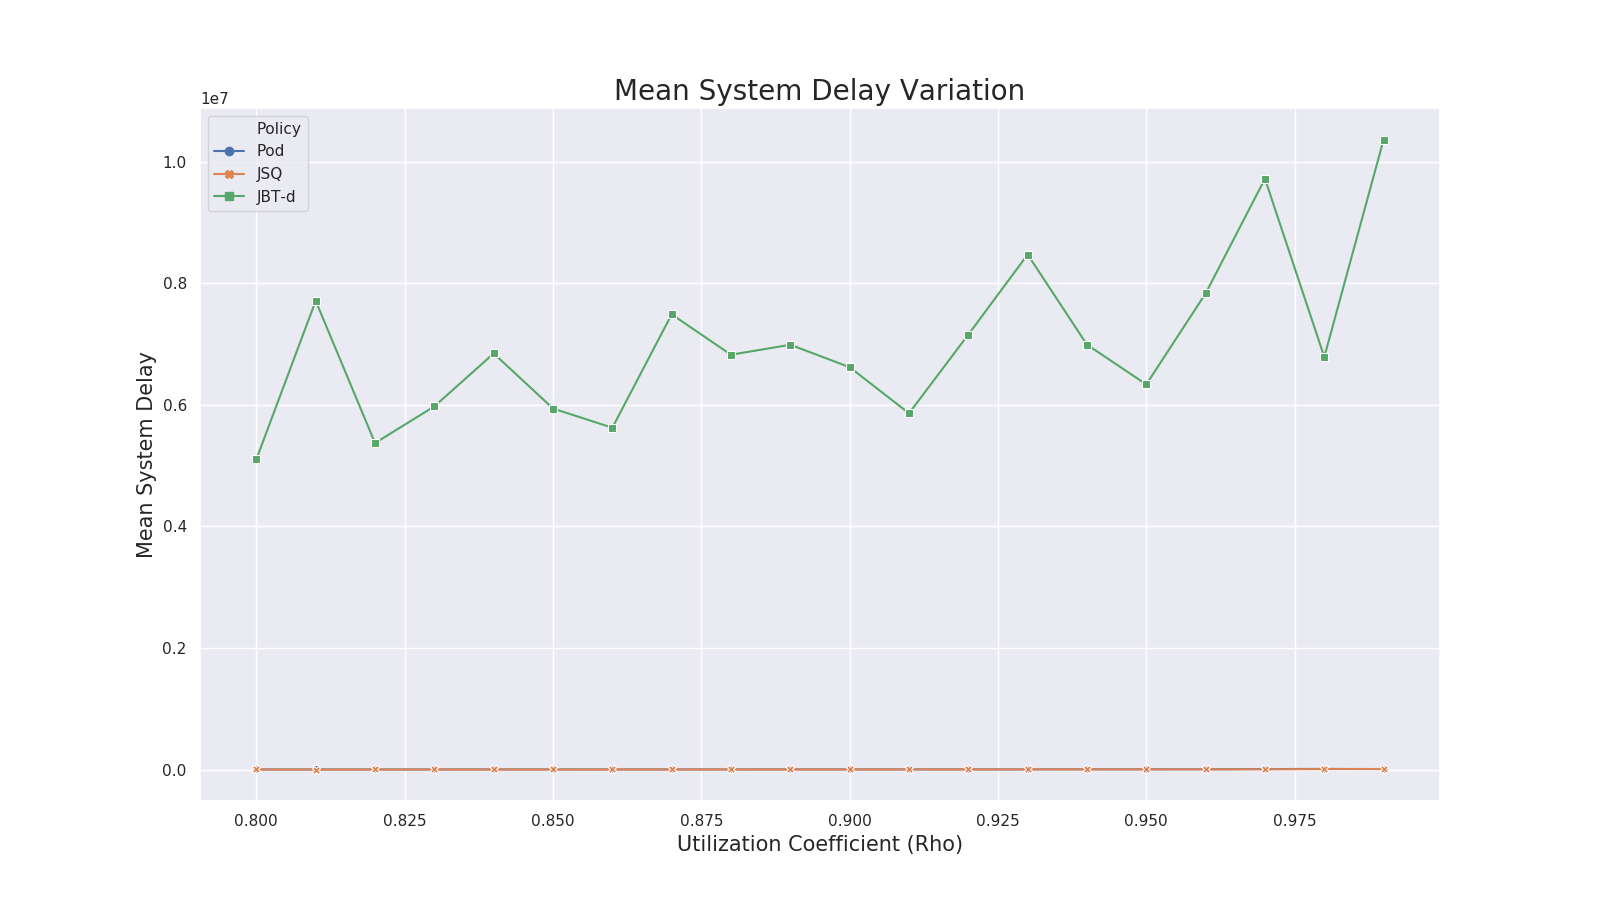
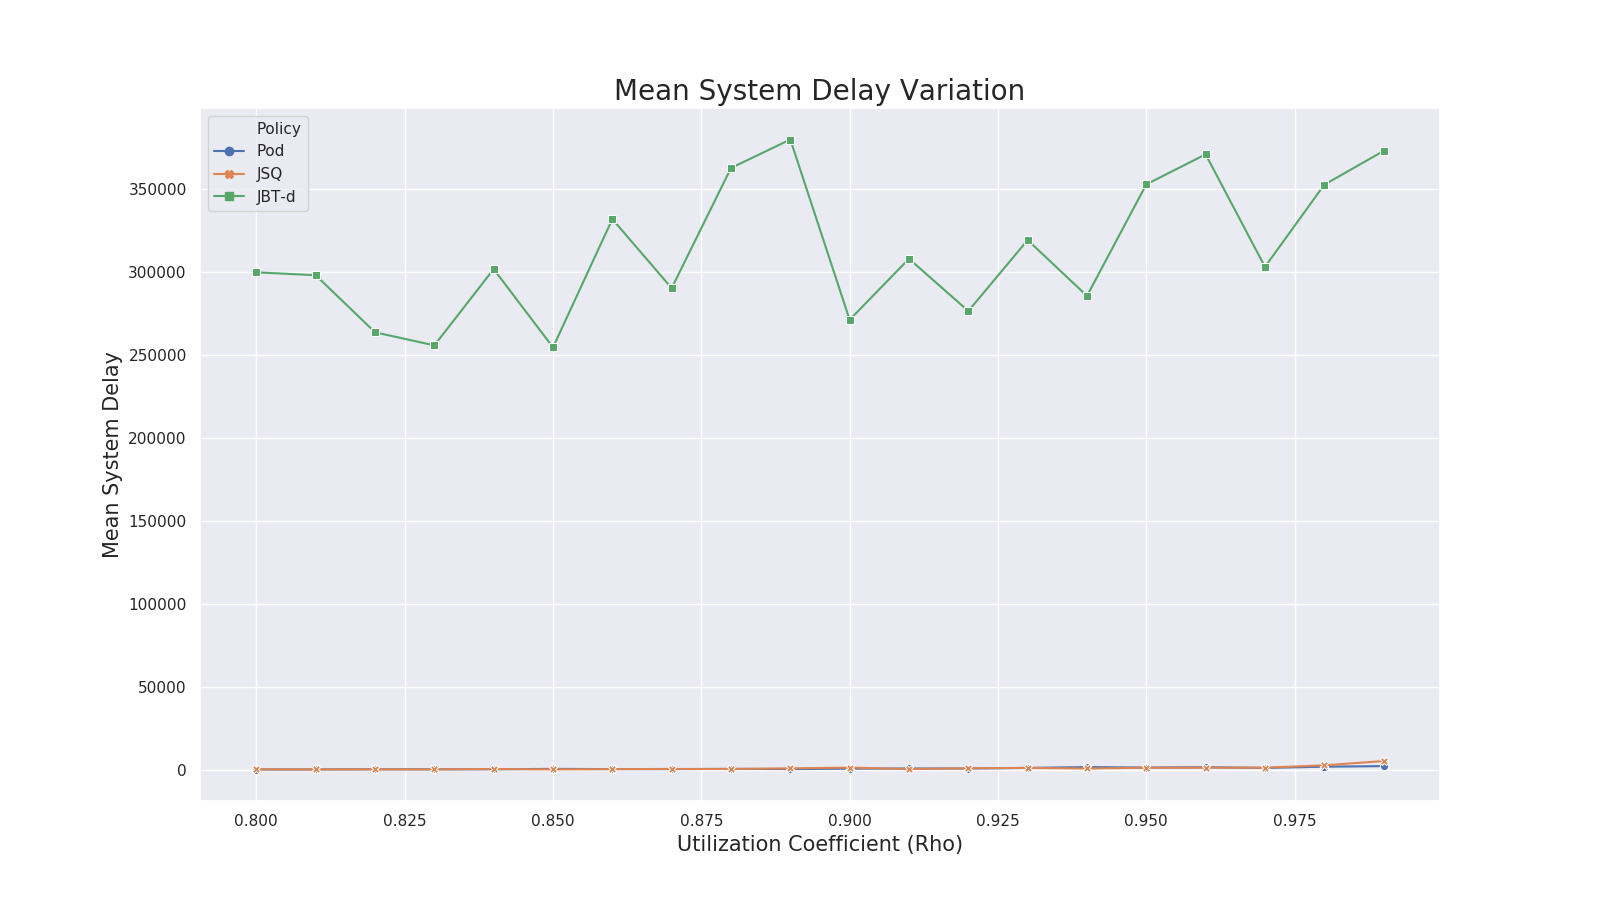
Add JBT overhead implementation

diff --git a/Dispatcher.py b/Dispatcher.py
@@ -134,12 +134,14 @@ class Dispatcher:
         print("Starting simulation for rho = " + str(self.rho))
         print()
 
+        overhead = 0
         self.generate_tasks_timeline(self.number_of_tasks)
 
         remaining_tasks = len(self.tasks_timeline)
         time = 0
         threshold = float("+inf")
         while(remaining_tasks > 0):
+            overhead_temp = 0
 
             servers_below_threshold = []
             for id, queue_len in self.servers.items():
@@ -161,6 +163,7 @@ class Dispatcher:
                 n_servers = min(self.d, len(servers_below_threshold))
                 server_id = self.pick_best_server(
                     servers_below_threshold, n_servers)
+                overhead_temp += 2*n_servers
             else:
                 server_id = random.sample(list(self.servers.keys()), 1)[0]
 
@@ -168,8 +171,12 @@ class Dispatcher:
             for i in range(tasks_cnt):
                 self.assign_task(time, server_id)
             remaining_tasks -= tasks_cnt
+            overhead_temp += self.number_of_servers
+
+            overhead += tasks_cnt + overhead_temp/self.t
 
         mean_system_delay = sum(self.delays)/self.number_of_tasks
+        mean_overhead = overhead/self.number_of_tasks
 
         print("Completed! rho = " + str(self.rho))
         process_time_exp = su.compute_process_time_exp(self.beta, self.alpha)
@@ -187,4 +194,4 @@ class Dispatcher:
         print("The mean system delay is:", mean_system_delay)
         print()
 
-        return mean_system_delay
+        return mean_system_delay, mean_overhead

diff --git a/simulation_utils.py b/simulation_utils.py
@@ -33,20 +33,12 @@ class Simulator:
         self.number_of_tasks = number_of_tasks
         self.d = d
 
-    def simulate(self, rho):
-        dispatcher = Dispatcher(self.number_of_tasks,
-                                self.number_of_servers,
-                                rho, self.d)
-        mean_sys_delay = dispatcher.execute_simulation()
-        return mean_sys_delay
-
     def simulate_partial(self, rho, i, output: list, overheads: list, jbt=False):
         dispatcher = Dispatcher(self.number_of_tasks,
                                 self.number_of_servers,
                                 rho, self.d)
         if jbt:
-            mean_sys_delay = dispatcher.execute_simulation_jbt()
-            overhead = 0
+            mean_sys_delay, overhead = dispatcher.execute_simulation_jbt()
         else:
             mean_sys_delay = dispatcher.execute_simulation()
             overhead = dispatcher.compute_overhead()
